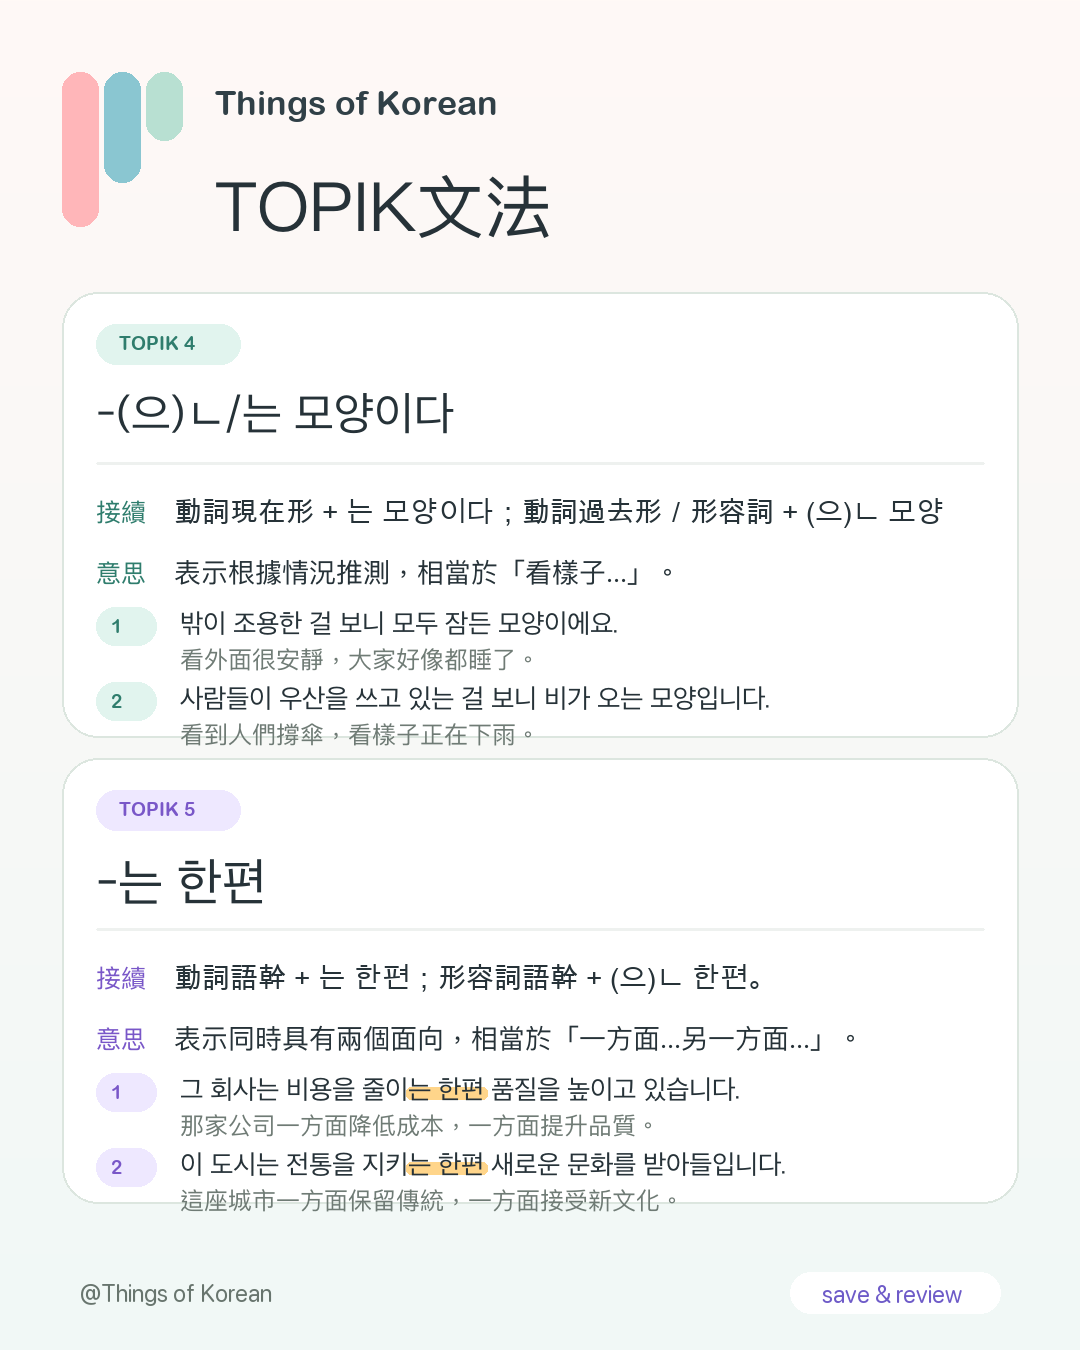
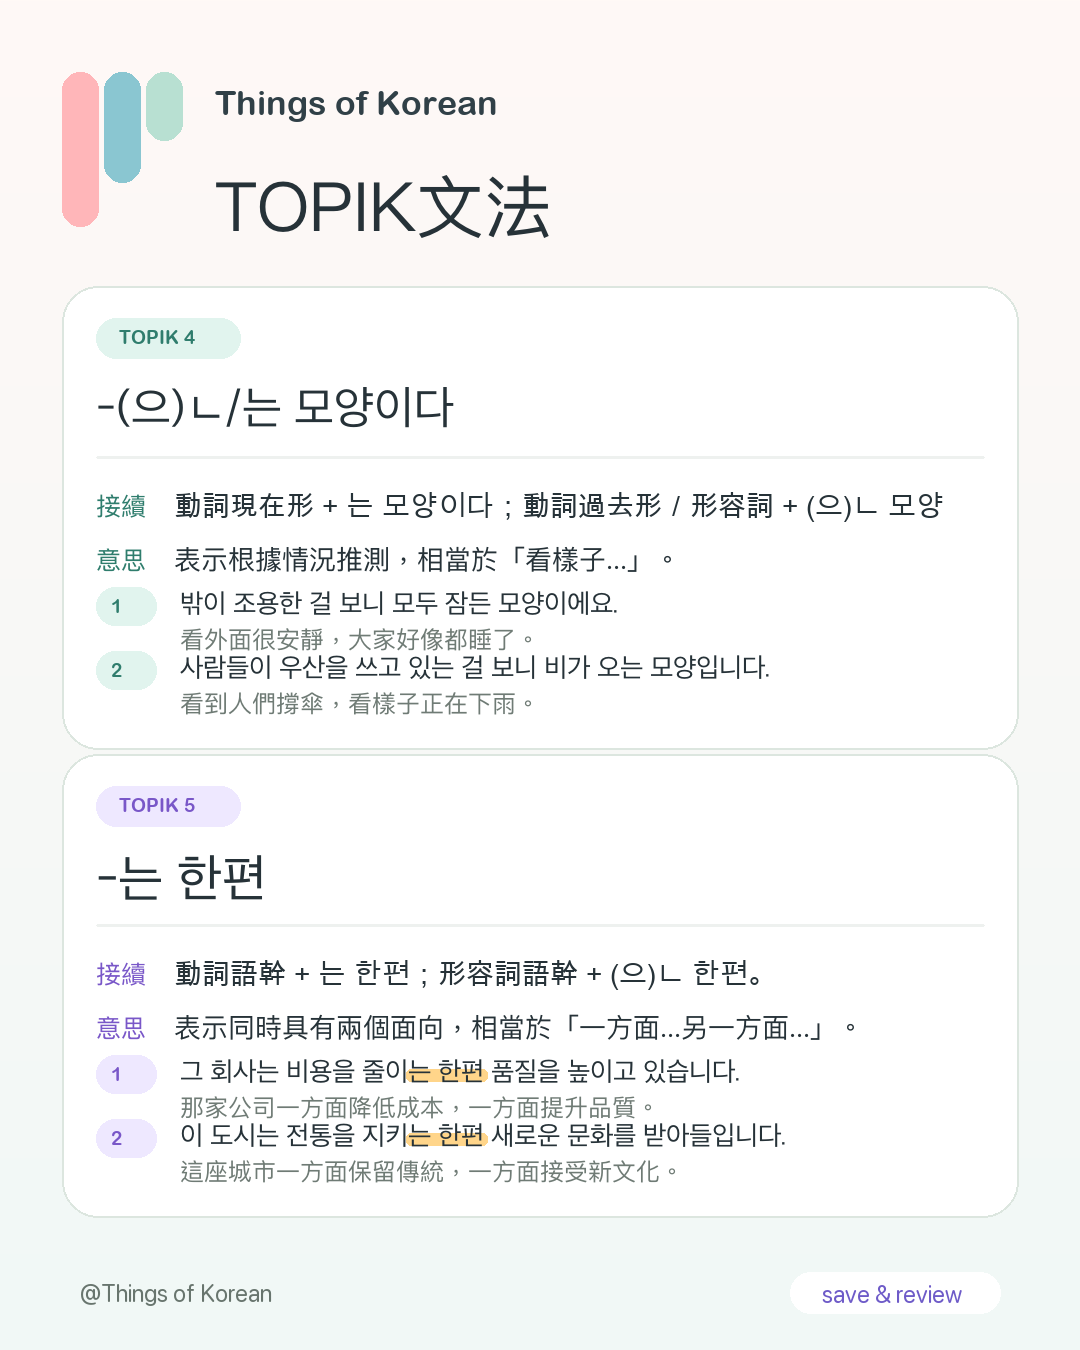
Fix adjective labels and grammar layout

diff --git a/scripts/render-ig-images.py b/scripts/render-ig-images.py
@@ -523,9 +523,27 @@ VOCAB_OVERRIDES = {
 def display_vocab_row(row):
     override = VOCAB_OVERRIDES.get(row.get("word"))
     if override:
-        return {**row, **override}
+        item = {**row, **override}
+        return normalize_vocab_item(item)
     word = row.get("word", "未知單字")
     raise ValueError(f"Missing curated vocabulary example for {word}. Add it to VOCAB_OVERRIDES before rendering.")
+
+
+def adjective_translation(text):
+    parts = [part.strip() for part in text.split("，")]
+    normalized = []
+    for part in parts:
+        if not part:
+            continue
+        normalized.append(part if part.endswith("的") else f"{part}的")
+    return "，".join(normalized)
+
+
+def normalize_vocab_item(item):
+    normalized = dict(item)
+    if normalized.get("pos") == "형용사" and normalized.get("translation"):
+        normalized["translation"] = adjective_translation(normalized["translation"])
+    return normalized
 
 
 def argos_translator():
@@ -739,15 +757,16 @@ def draw_example(draw, x, y, sentence, translation, target, max_width):
         return y + 36
 
     draw_marker(draw, x, y, sentence, target, max_width, FONTS["ex_ko"], "#263238")
-    return wrap(draw, translation, (x, y + 34), FONTS["ex_zh"], "#6F7B75", max_width, 1, 4)
+    draw_fit_line(draw, x, y + 34, translation, FONTS["ex_zh"], "#6F7B75", max_width, 18)
+    return y + 58
 
 
 def render_grammar(rows, output_path):
     img, draw = gradient((255, 249, 246), (241, 248, 247))
     draw_header(draw, "TOPIK文法")
     palette = [("#2F7D6D", "#E1F4EE"), ("#7957C8", "#EEE8FF")]
-    ys = [292, 758]
-    card_x, card_width, card_height = 62, 956, 445
+    ys = [286, 754]
+    card_x, card_width, card_height = 62, 956, 463
 
     for index, item in enumerate(rows[:2]):
         accent, tint = palette[index % len(palette)]
@@ -763,15 +782,15 @@ def render_grammar(rows, output_path):
         cy = y + 202
         draw.text((card_x + 34, cy), "接續", font=FONTS["label"], fill=accent)
         wrap(draw, item.get("attachment", ""), (card_x + 112, cy - 2), FONTS["attach"], "#263238", 790, 1, 5)
-        cy += 61
+        cy += 54
         draw.text((card_x + 34, cy), "意思", font=FONTS["label"], fill=accent)
-        cy = wrap(draw, item.get("meaning", ""), (card_x + 112, cy - 2), FONTS["body"], "#263238", 790, 2, 6) + 25
+        cy = wrap(draw, item.get("meaning", ""), (card_x + 112, cy - 2), FONTS["body"], "#263238", 790, 2, 6) + 18
 
         for example_index, (sentence, translation) in enumerate(item.get("examples", [])[:2], start=1):
             draw.rounded_rectangle([card_x + 34, cy - 3, card_x + 94, cy + 35], radius=19, fill=tint)
             draw.text((card_x + 49, cy + 5), str(example_index), font=FONTS["tag"], fill=accent)
             target = grammar_targets(item["pattern"], sentence)
-            cy = draw_example(draw, card_x + 118, cy - 2, sentence, translation, target, 785) + 16
+            cy = draw_example(draw, card_x + 118, cy - 2, sentence, translation, target, 785) + 8
 
     draw_footer(draw)
     img.save(output_path, quality=95)
